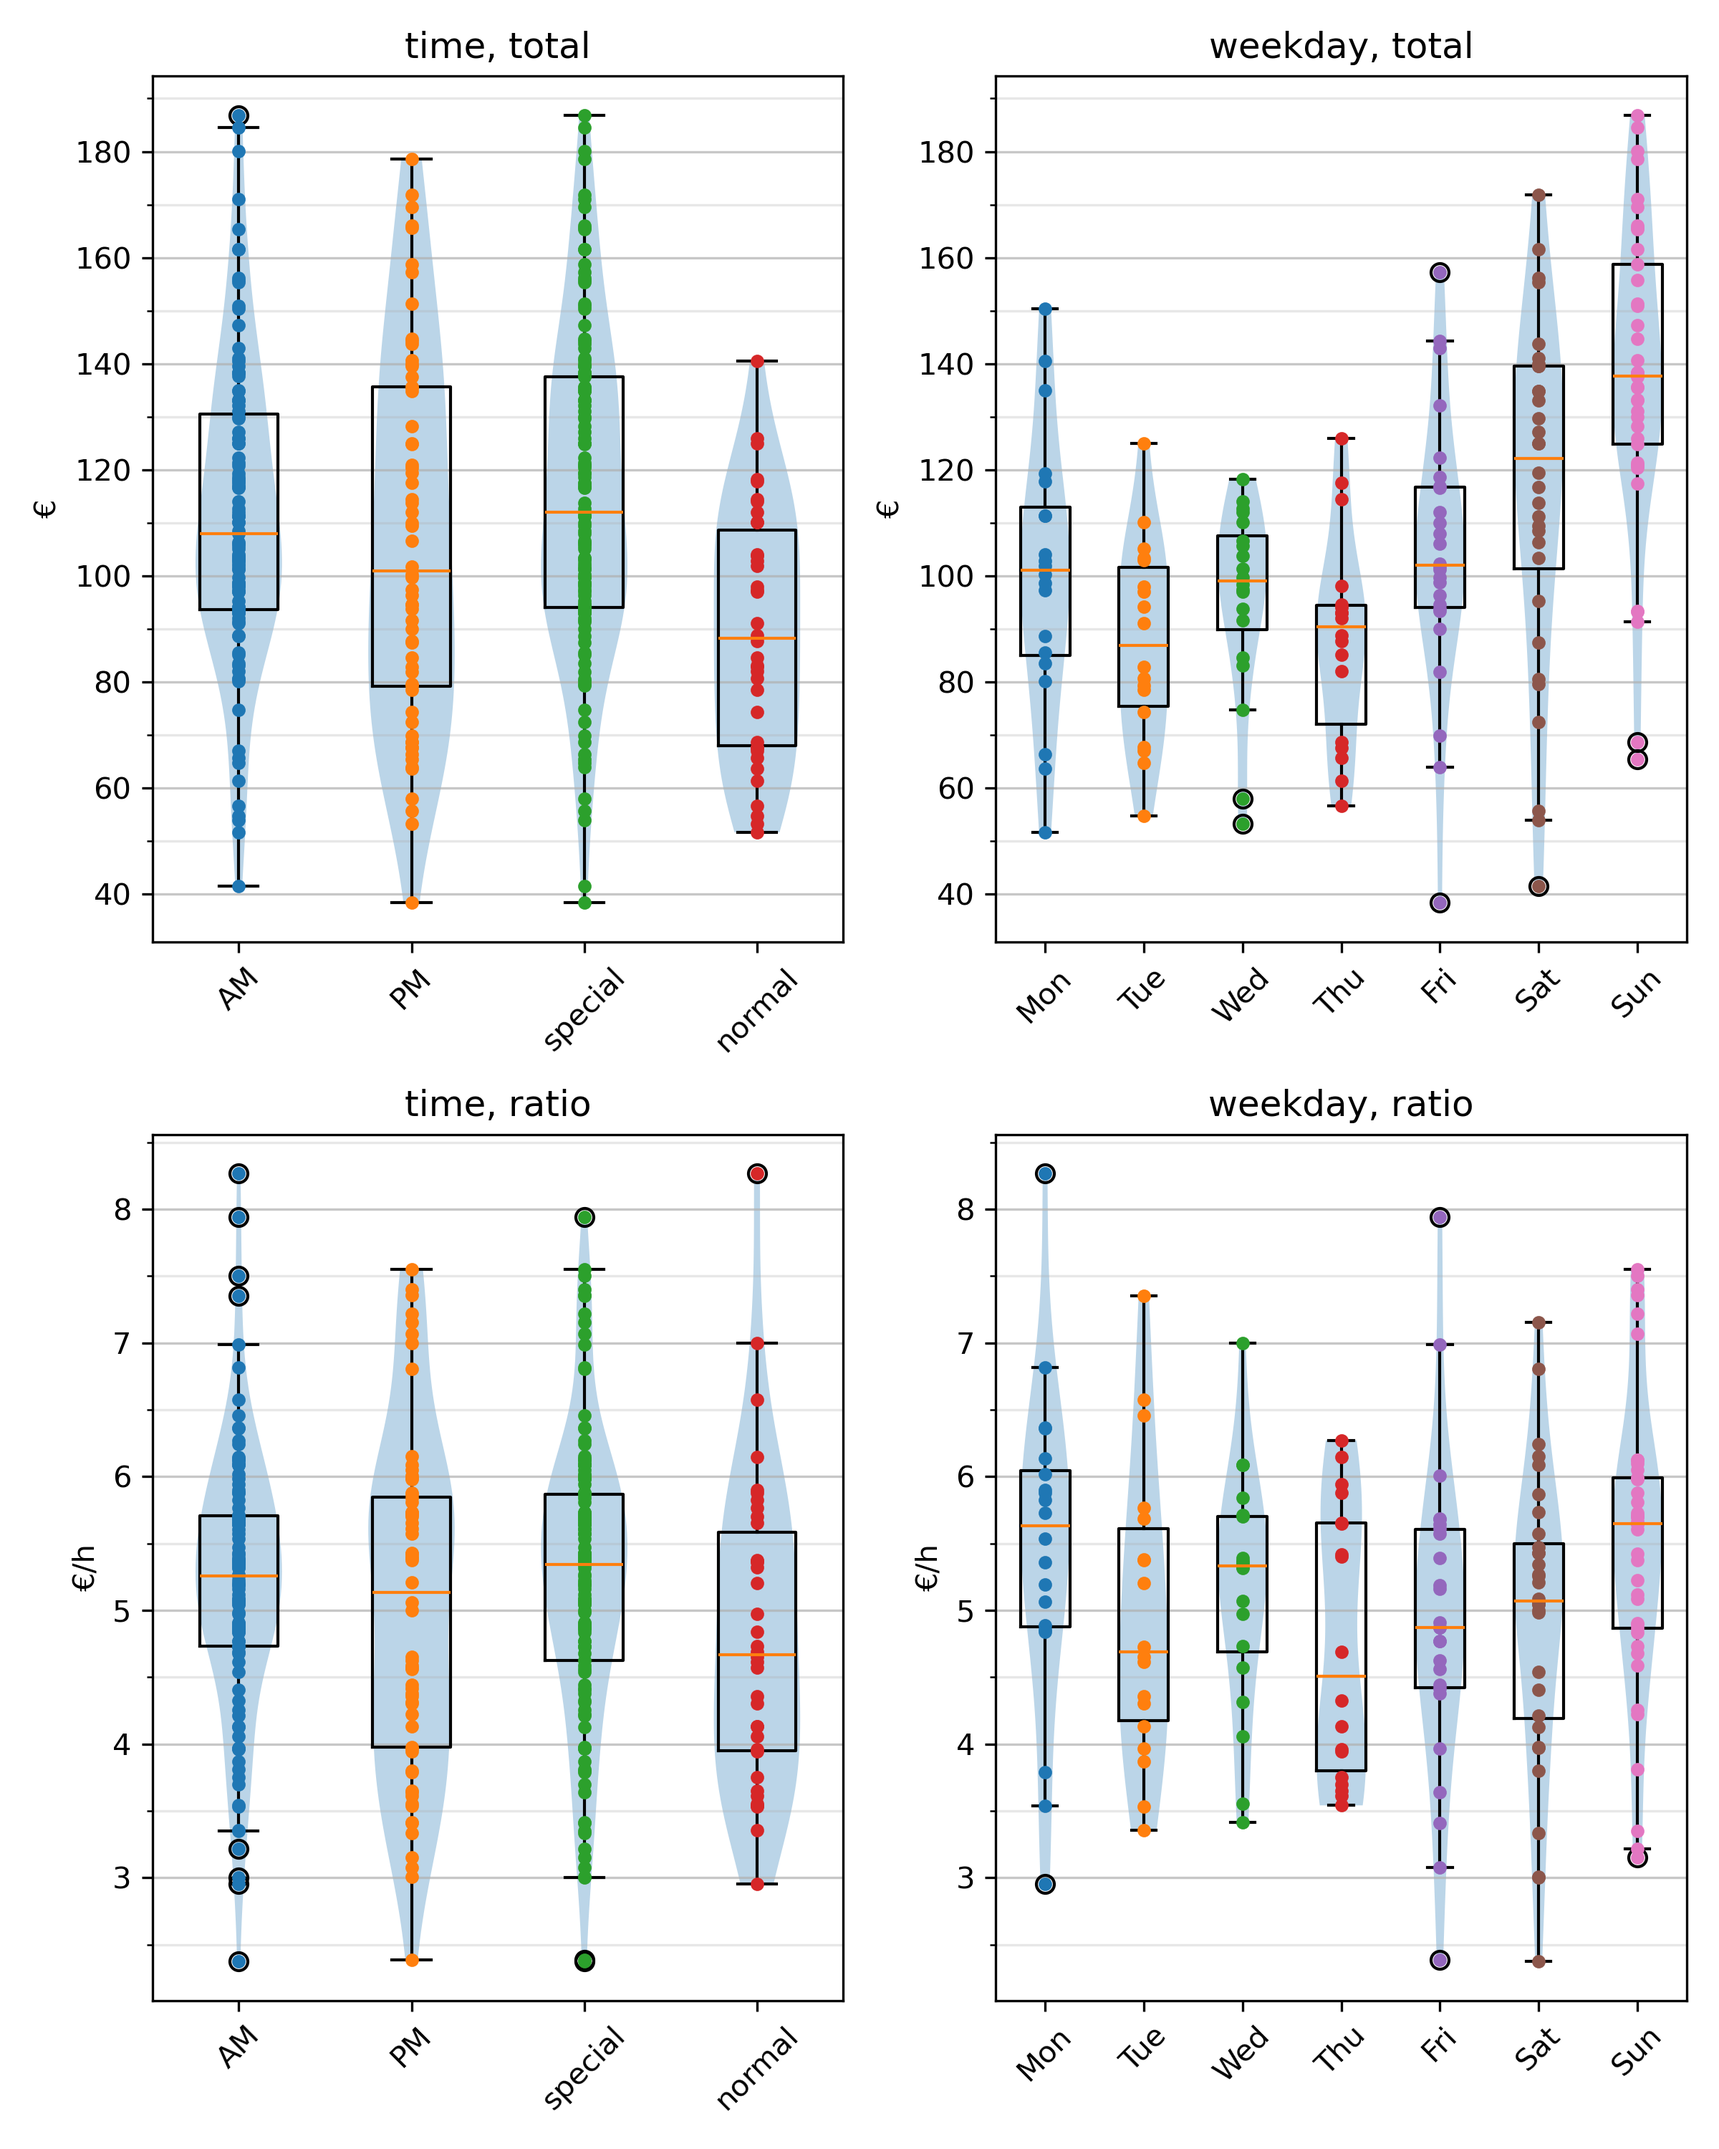
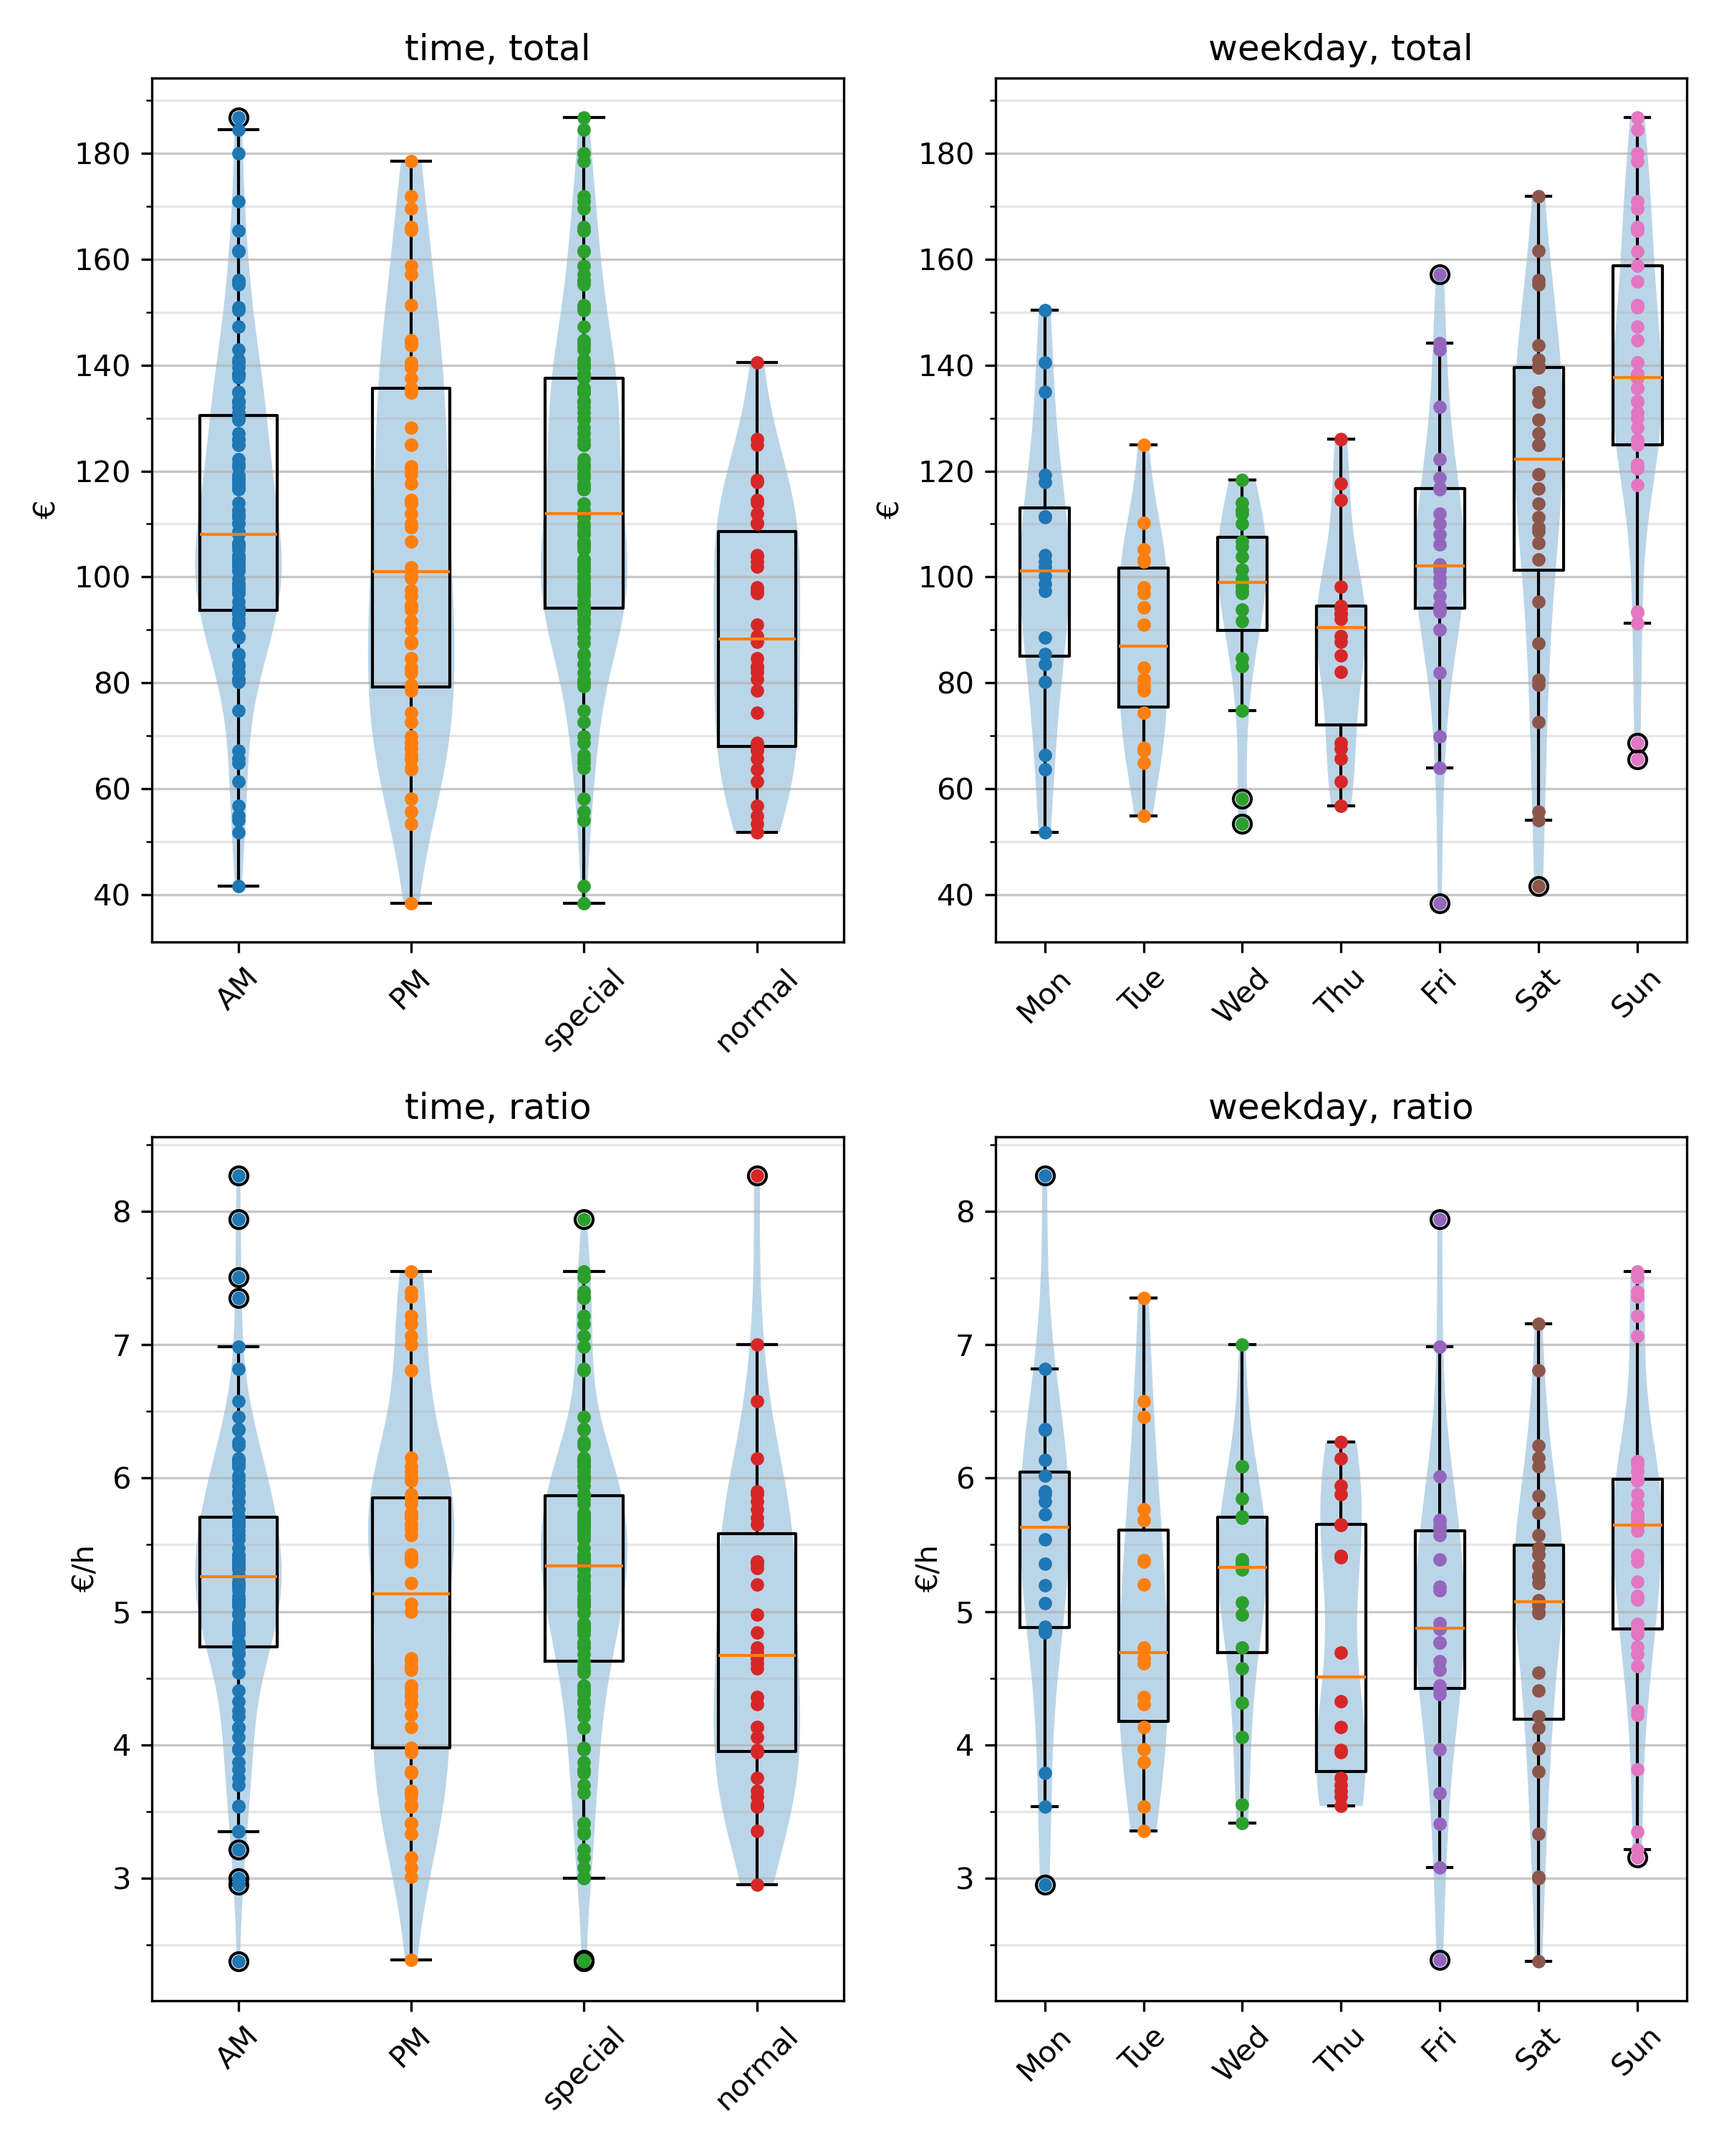
update plot

diff --git a/statistic.py b/statistic.py
@@ -56,6 +56,7 @@ def statistic():
         for f in filenames:
             if not any(s in f for s in ['LOG', 'checkpoint', 'DS', 'edited', 'DUMMY']):
                 files.append(os.path.join(dirpath, f))
+                
                 flag = False
 
     files = sorted(files, key=sorterkey)
@@ -73,6 +74,8 @@ def statistic():
         try:
             f = open(file)
             jData = json.loads(f.read())
+            if float(jData['sum']) > 300:
+                print(f)
         except IndexError:
             print(file)
 
@@ -149,8 +152,8 @@ def statistic():
     top = sorted(zip(ratio, total, date, time, holiday), reverse=True)[:3]
     for i in range(len(top)):
         wkday = dt.strptime(top[i][2], '%d.%m.%Y').strftime('%a')
-        print(f'{i+1}": {float(top[i][0]):5.2f}€/h   {float(top[i][1]):6.3f}€   {top[i][2]:10} {wkday} {top[i][3]}')
-        text_README.append(f'{i+1}":|{float(top[i][0]):5.2f}€/h|{float(top[i][1]):6.3f}€|{top[i][2]:10} {wkday} {top[i][3]}\n')
+        print(f'{i+1}": {float(top[i][0]):5.3f}€/h   {float(top[i][1]):6.2f}€   {top[i][2]:10} {wkday} {top[i][3]}')
+        text_README.append(f'{i+1}":|{float(top[i][0]):5.3f}€/h|{float(top[i][1]):6.2f}€|{top[i][2]:10} {wkday} {top[i][3]}\n')
         print(f'{" "*5}holiday -> {top[i][4].capitalize()}')
         text_README.append(f'&nbsp;|&nbsp;|&nbsp;|holiday -> {top[i][4].capitalize()}\n')
 
@@ -291,7 +294,7 @@ def statistic():
     c = ['tab:blue', 'tab:orange', 'tab:green', 'tab:red', 'tab:purple', 'tab:brown', 'tab:pink']
 
 
-    fig, axs = plt.subplots(2, 2)
+    fig, axs = plt.subplots(2, 2, figsize=(8,10))
 
     axs[0, 0].set_title('time, total')
     axs[0, 0].boxplot(Ptime)
@@ -306,6 +309,7 @@ def statistic():
     axs[0, 0].set_yticks(minor, minor = True)
     for i in range(4):
         axs[0, 0].plot(np.ones(len(Ptime[i])) *i +1, Ptime[i], ms=4, marker='o', mew=0.5, ls="none", color=c[i])
+    axs[0, 0].violinplot(Ptime, positions=range(1, 5), showextrema=False)
 
 
     axs[1, 0].set_title('time, ratio')
@@ -321,6 +325,7 @@ def statistic():
     axs[1, 0].set_yticks(minor, minor = True)
     for i in range(4):
         axs[1, 0].plot(np.ones(len(Rtime[i])) *i +1, Rtime[i], ms=4, marker='o', mew=0.5, ls="none", color=c[i])
+    axs[1, 0].violinplot(Rtime, positions=range(1, 5), showextrema=False)
 
 
     axs[0, 1].set_title('weekday, total')
@@ -338,6 +343,7 @@ def statistic():
     #axs[0, 1].set_xticklabels(['', 'Mon', 'Tue', 'Wed', 'Thu', 'Fri', 'Sat', 'Sun'], rotation=45)
     for i in range(7):
         axs[0, 1].plot(np.ones(len(Ptotal[i])) *i +1, Ptotal[i], ms=4, marker='o', mew=0.5, ls="none", color=c[i])
+    axs[0, 1].violinplot(Ptotal, positions=range(1, 8), showextrema=False)
 
 
     axs[1, 1].set_title('weekday, ratio')
@@ -353,11 +359,13 @@ def statistic():
     axs[1, 1].set_yticks(minor, minor = True)
     for i in range(7):
         axs[1, 1].plot(np.ones(len(Rtotal[i])) *i +1, Rtotal[i], ms=4, marker='o', mew=0.5, ls="none", color=c[i])
+    axs[1, 1].violinplot(Rtotal, positions=range(1, 8), showextrema=False)
 
 
     fig.tight_layout()
+    plt.savefig('harvest.png', dpi=300)
+    
     if render == 'android':
-        plt.savefig('harvest.png')
         subprocess.call('termux-open harvest.png', shell=True)
 
     else:

diff --git a/README.md b/README.md
@@ -1,4 +1,4 @@
-last update: 29.04.2024, Monday, time: 22:28
+last update: 01.05.2024, Wednesday, time: 21:33
 # Statistic  
 Holiday: Holiday in Germany NRW and Friday till Sunday  
 ## Overview  
